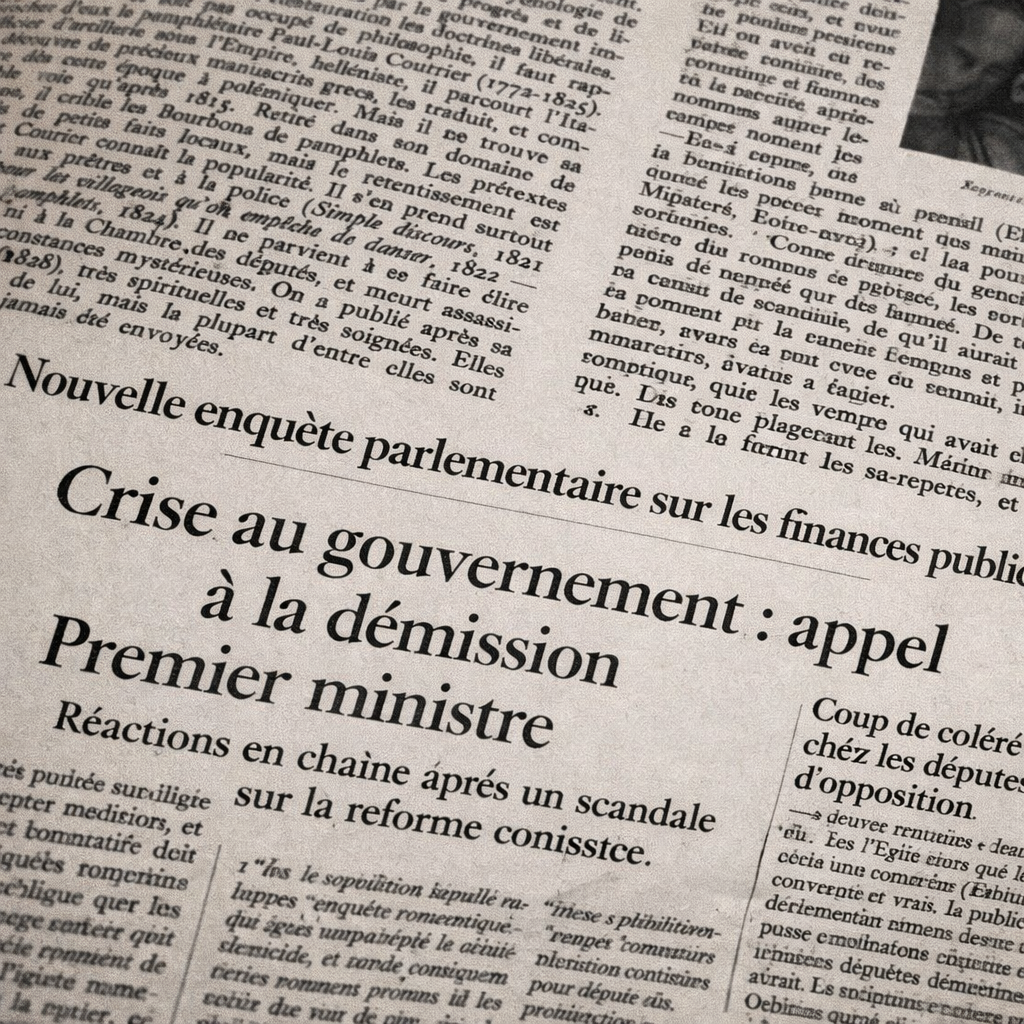
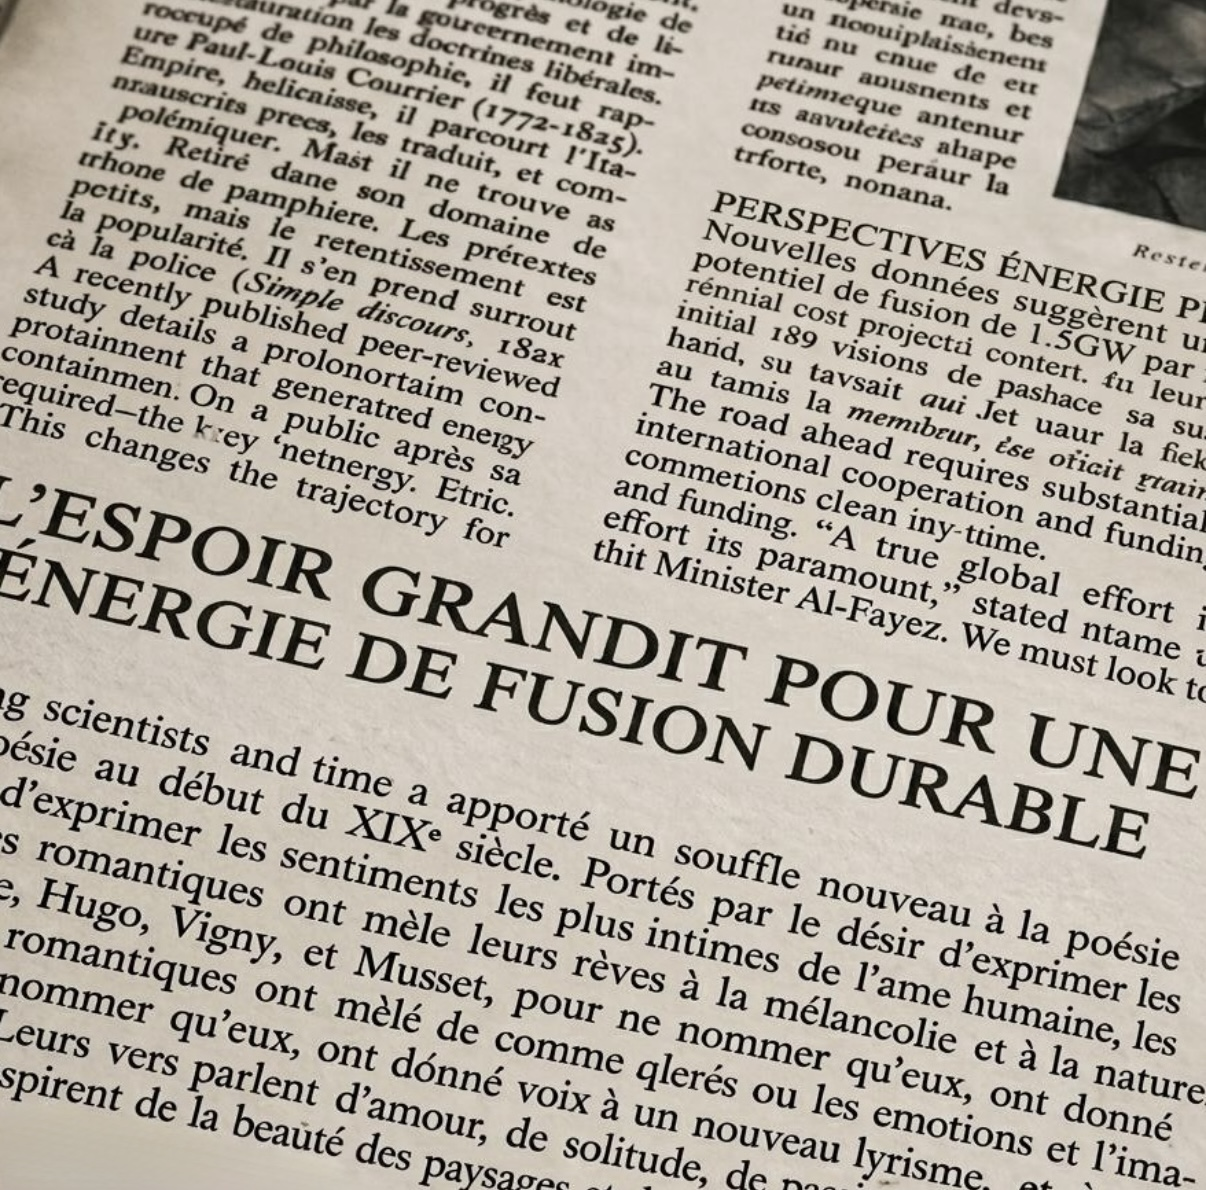
Changed articles picture and fixed some layout issues.

diff --git a/library.html b/library.html
@@ -42,9 +42,9 @@ Team Finaly Delivery - French self-learning Platform
                         </div>
 
                         <div class="dropdown-menu">
-                            <a href="user.html" class="dropdown-btn">Level: user.level</a>
-                            <button class="dropdown-btn">Sign Out</button>
-                            <button class="dropdown-btn danger">Delete Account</button>
+                            <a href="levels.html" class="dropdown-btn">Upgrade Level</a>
+                            <a href="#" class="dropdown-btn">Sign Out</a>
+                            <a href="#" class="dropdown-btn danger">Delete Account</a>
                         </div>
                     </li>
                 </ul>
@@ -106,7 +106,6 @@ Team Finaly Delivery - French self-learning Platform
                 Stay informed with a collection of engaging and up-to-date news articles.
                 Explore topics ranging from current events to culture and global perspectives.
                 Each article offers clear insights and thoughtful reporting.
-
                 <a href="article.html" class="horiz-button">Browse<div class="browse-arrow"><img
                             src="images/icons/curved-right-arrow.png"></div>
                 </a>

diff --git a/article.html b/article.html
@@ -58,9 +58,9 @@ Team Finaly Delivery - French self-learning Platform
                         <span class="user-level">Level: user.level</span>
                     </div>
                     <div class="dropdown-menu">
-                        <a href="levels.html"><button class="dropdown-btn">Upgrade Level</button></a>
-                        <button class="dropdown-btn">Sign Out</button>
-                        <button class="dropdown-btn danger">Delete Account</button>
+                        <a href="levels.html" class="dropdown-btn">Upgrade Level</a>
+                        <a href="#" class="dropdown-btn">Sign Out</a>
+                        <a href="#" class="dropdown-btn danger">Delete Account</a>
                     </div>
                 </li>
             </ul>

diff --git a/levels.html b/levels.html
@@ -58,9 +58,9 @@ Team Finaly Delivery - French self-learning Platform
                         <span class="user-level">Level: user.level</span>
                     </div>
                     <div class="dropdown-menu">
-                        <a href="levels.html"><button class="dropdown-btn">Upgrade Level</button></a>
-                        <button class="dropdown-btn">Sign Out</button>
-                        <button class="dropdown-btn danger">Delete Account</button>
+                        <a href="levels.html" class="dropdown-btn">Upgrade Level</a>
+                        <a href="#" class="dropdown-btn">Sign Out</a>
+                        <a href="#" class="dropdown-btn danger">Delete Account</a>
                     </div>
                 </li>
             </ul>

diff --git a/poem.html b/poem.html
@@ -58,9 +58,9 @@ Team Finaly Delivery - French self-learning Platform
                         <span class="user-level">Level: user.level</span>
                     </div>
                     <div class="dropdown-menu">
-                        <a href="levels.html"><button class="dropdown-btn">Upgrade Level</button></a>
-                        <button class="dropdown-btn">Sign Out</button>
-                        <button class="dropdown-btn danger">Delete Account</button>
+                        <a href="levels.html" class="dropdown-btn">Upgrade Level</a>
+                        <a href="#" class="dropdown-btn">Sign Out</a>
+                        <a href="#" class="dropdown-btn danger">Delete Account</a>
                     </div>
                 </li>
             </ul>

diff --git a/story.html b/story.html
@@ -58,9 +58,9 @@ Team Finaly Delivery - French self-learning Platform
                         <span class="user-level">Level: user.level</span>
                     </div>
                     <div class="dropdown-menu">
-                        <a href="levels.html"><button class="dropdown-btn">Upgrade Level</button></a>
-                        <button class="dropdown-btn">Sign Out</button>
-                        <button class="dropdown-btn danger">Delete Account</button>
+                        <a href="levels.html" class="dropdown-btn">Upgrade Level</a>
+                        <a href="#" class="dropdown-btn">Sign Out</a>
+                        <a href="#" class="dropdown-btn danger">Delete Account</a>
                     </div>
                 </li>
             </ul>

diff --git a/css/readingsStyle.css b/css/readingsStyle.css
@@ -170,12 +170,14 @@ nav ul {
     padding: 10px;
     border: none;
     border-radius: 6px;
-    font-family: 'NTR', sans-serif;
     background: #eee;
     cursor: pointer;
+    font-family: 'NTR', sans-serif;
     font-size: 14px;
     transition: 0.2s;
     text-align: center;
+    display: block;
+    width: 100%;
 }
 
 .dropdown-btn:hover {

diff --git a/css/levelsStyle.css b/css/levelsStyle.css
@@ -177,6 +177,8 @@ nav ul {
     font-size: 14px;
     transition: 0.2s;
     text-align: center;
+    display: block;
+    width: 100%;
 }
 
 .dropdown-btn:hover {

diff --git a/css/libraryStyle.css b/css/libraryStyle.css
@@ -177,6 +177,8 @@ nav ul {
     font-size: 14px;
     transition: 0.2s;
     text-align: center;
+    display: block;
+    width: 100%;
 }
 
 .dropdown-btn:hover {
